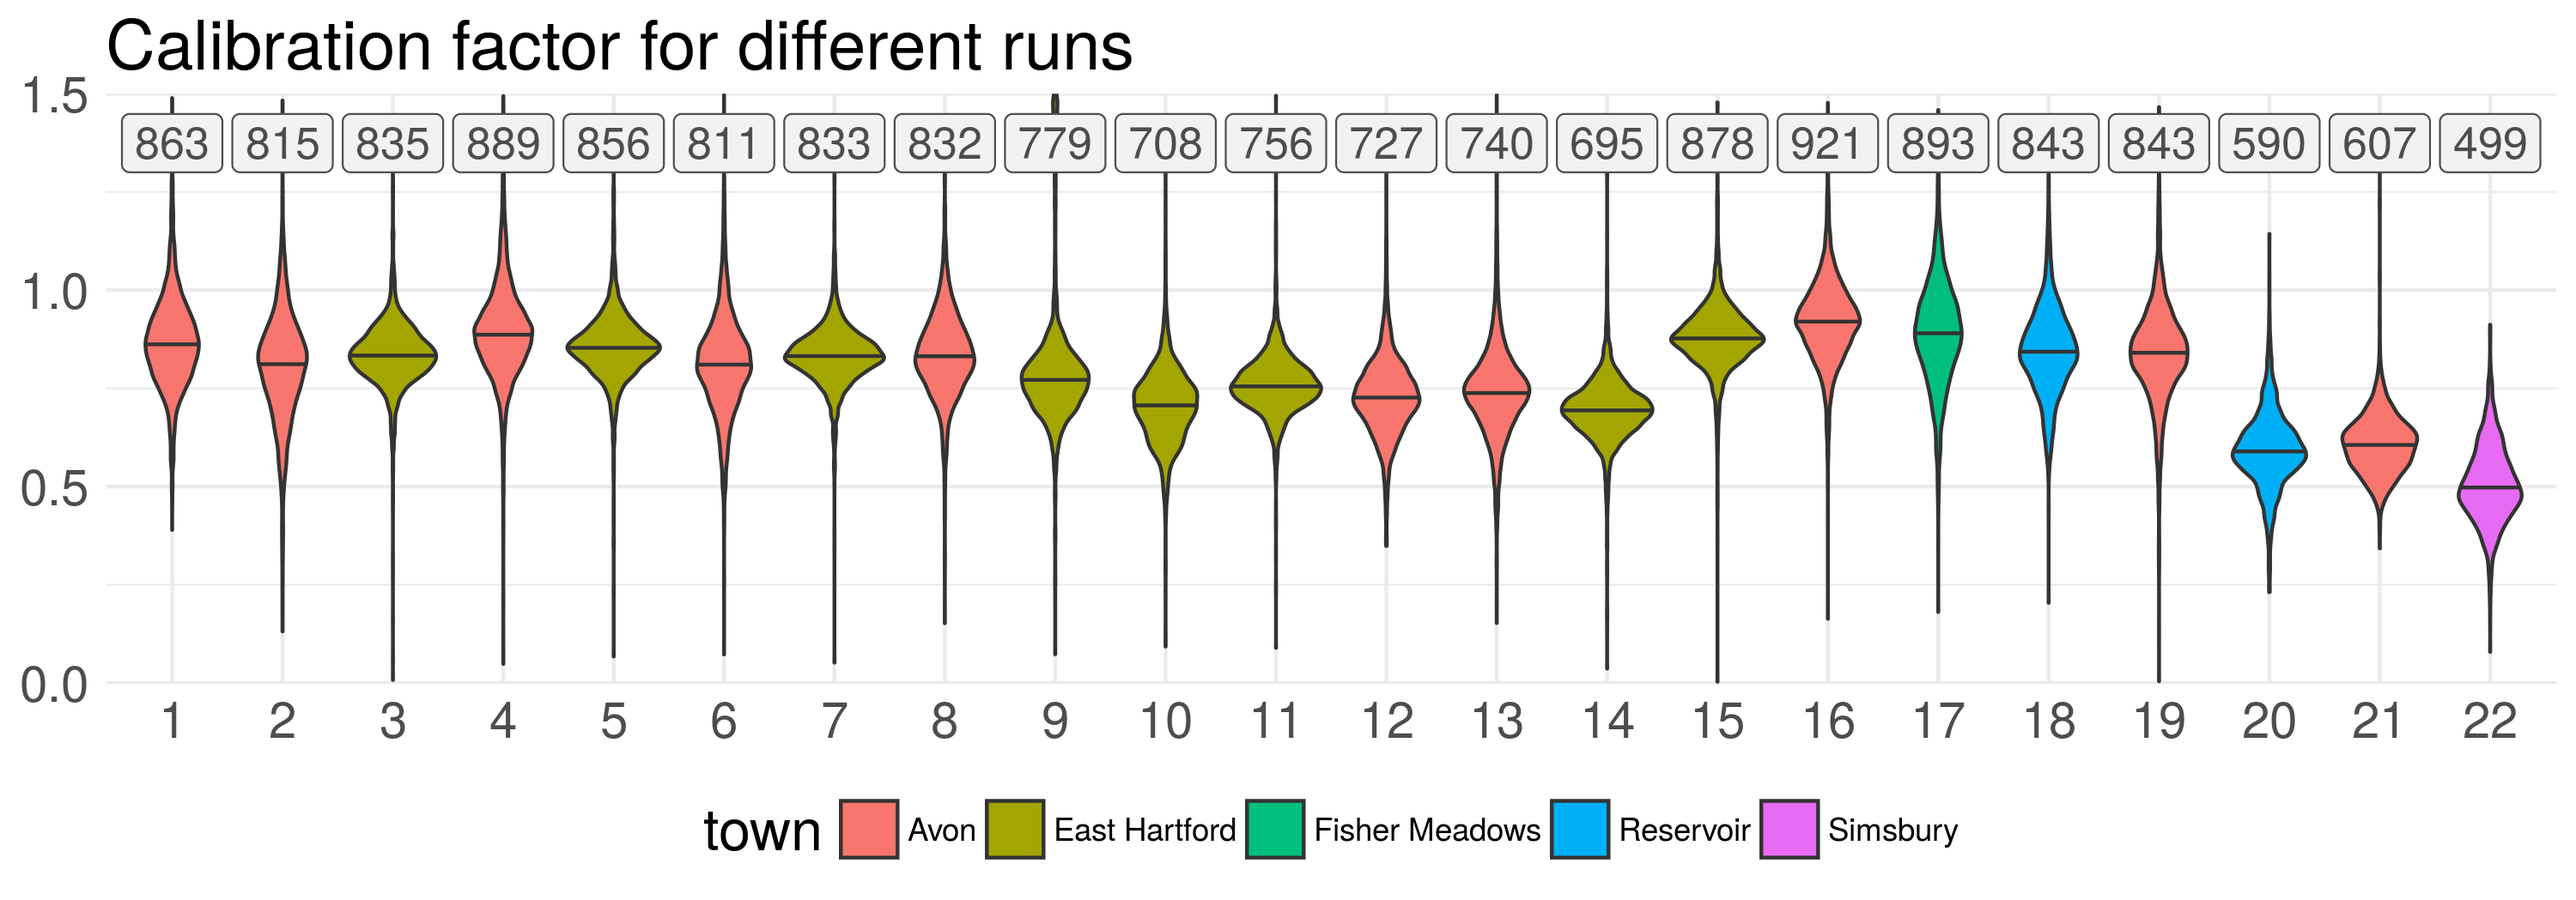
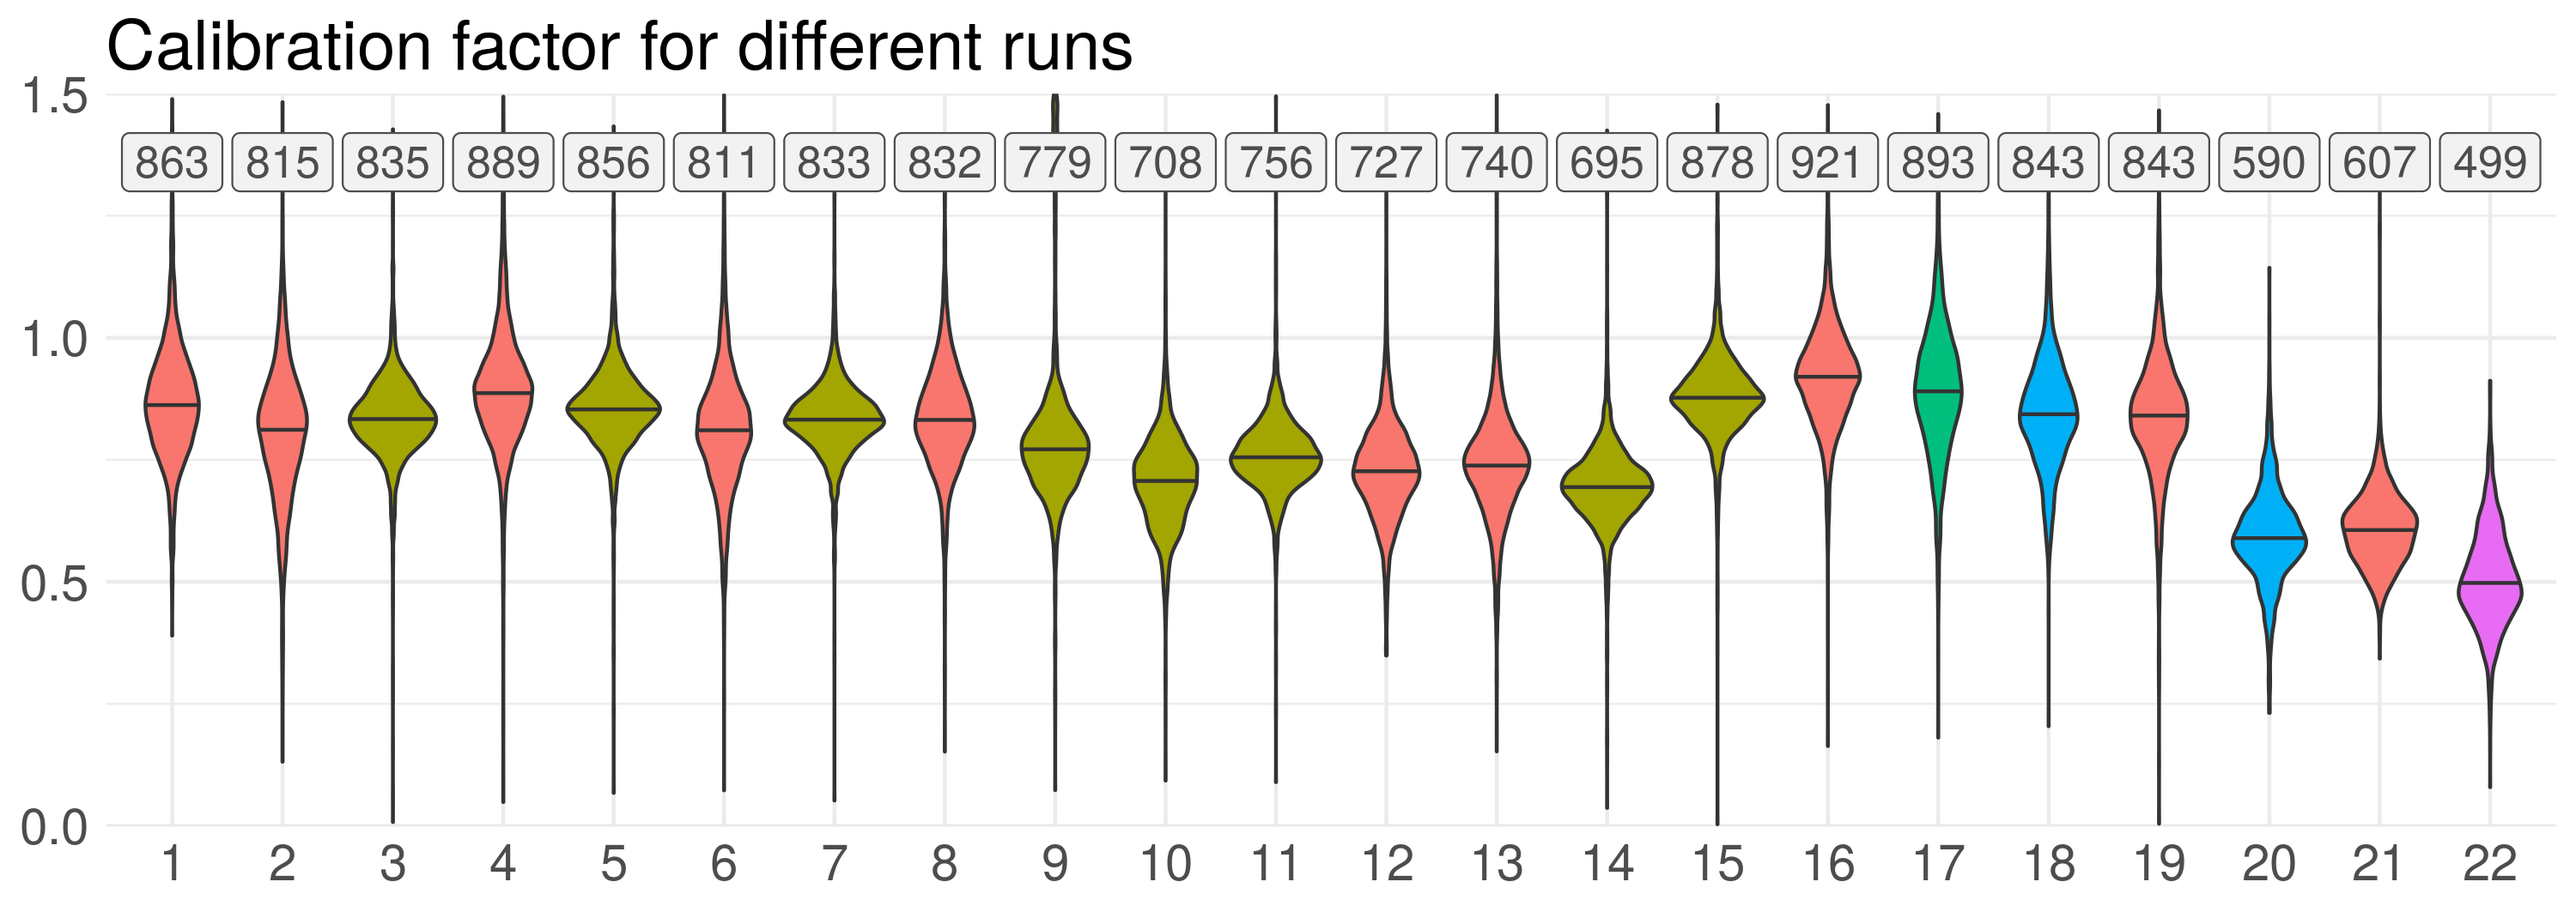
expanded foot pod article

diff --git a/_posts/2018-10-19-footpod.md b/_posts/2018-10-19-footpod.md
@@ -6,12 +6,12 @@ tags:
   - foot pod
 ---
 
-This year I've taken a more systematic approach to running and part of that has been running with a foot pod. Unfortunately, it requires calibration and the calibration factor keeps shifting drastically from run to run.
-![](/assets/images/violinplots.png "Footpod calibration varying from run to
-run")
-The violin plots show 22 runs. The median in each plot marks the calibration factor I *should have used* during that run---calculated after the fact.
+![](/assets/images/violinplots.png "Footpod calibration varying from run to run")
+This year I've taken a more systematic approach to running and part of that has been running with a foot pod. Unfortunately, it requires calibration and the calibration factor keeps shifting drastically from run to run.  The violin plots show 22 runs; color represents different routes. The median in each plot marks the calibration factor I *should have used* during that run---calculated after the fact.
 
-Runs 21 and 22 are an extreme case. They are two halves of an out-and-back run: I ran 3 miles out, stopped, and marked the run as finished on the watch. Then I immediately started a new run back home at about the same pace. The calibration factor shifted from 0.607 to 0.499.
+Runs 21 and 22 are an extreme case. They are two halves of an out-and-back run: I ran 3 miles out, stopped, and marked the run as finished on the watch. Then I immediately started a new run back home at about the same pace. The needed calibration factor shifted from 0.607 to 0.499. This is huge: since I did not actually change the calibration during that run, this means the watch jumped 22% in reporting my speed. Since the weather, route, and pace was the same, it's hard to think this is an actual shift in the speed reported by the foot pod to the watch, but much more likely is a bug in the watch software.
+
+I used violin plots to show that they are truly two different populations during the two runs: the variation is not just statistical noise.
 
 ## Backstory
 
@@ -25,7 +25,7 @@ Gray is GPS-based pace (note how noisy it is!). Red is the uncalibrated foot pod
 
 The standard way is to integrate the pace into a total distance and to compare that with either a known distance (e.g., a track) or the GPS distance. This makes sense if our goal is to be able to compute total distance just using a foot pod. The method works well. However, I worry that if there are a few *very bad* outliers, the computation could yield a less-than-useful pace.
 
-My approach is slightly different: at every moment I compute an *instantaneous calibration factor* equal to (GPS pace)/(foot pod pace) and then I take the *median* (marked in the violin plots above). The goal is to be insensitive to a few very bad measurements, which I have seen in practice.
+My approach is slightly different: at every moment I compute an *instantaneous calibration factor* equal to (GPS pace)/(foot pod pace) and then I take the *median* (marked in the violin plots above). The goal is to be insensitive to a few very bad measurements, which I have seen occasionally. In practice, there's little difference between the two approaches. It's more the *principle*: I'm looking for a *typically-correct* calibration factor.
 
 ## The frustration
 
